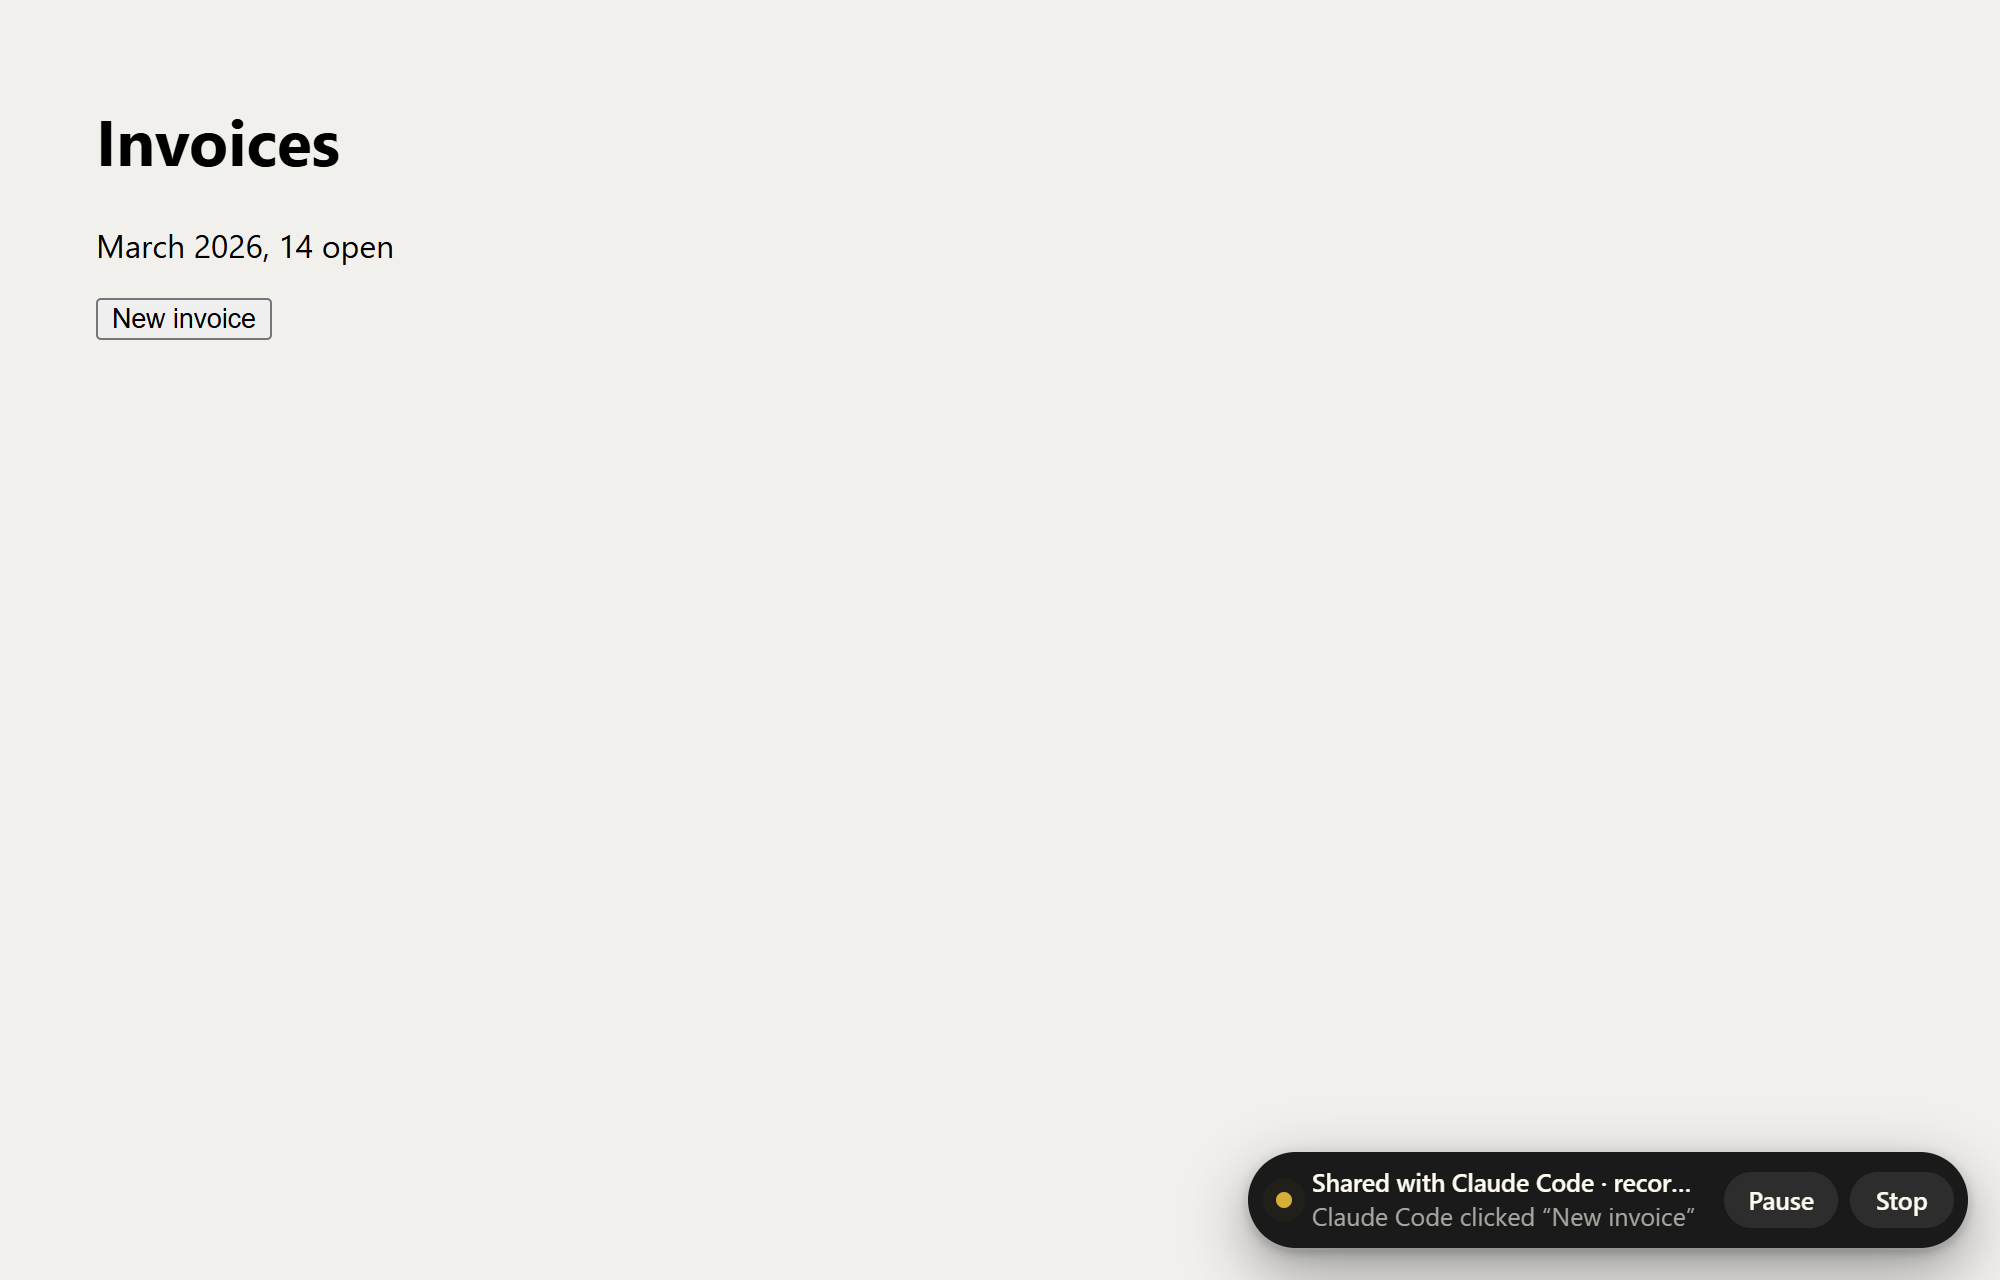
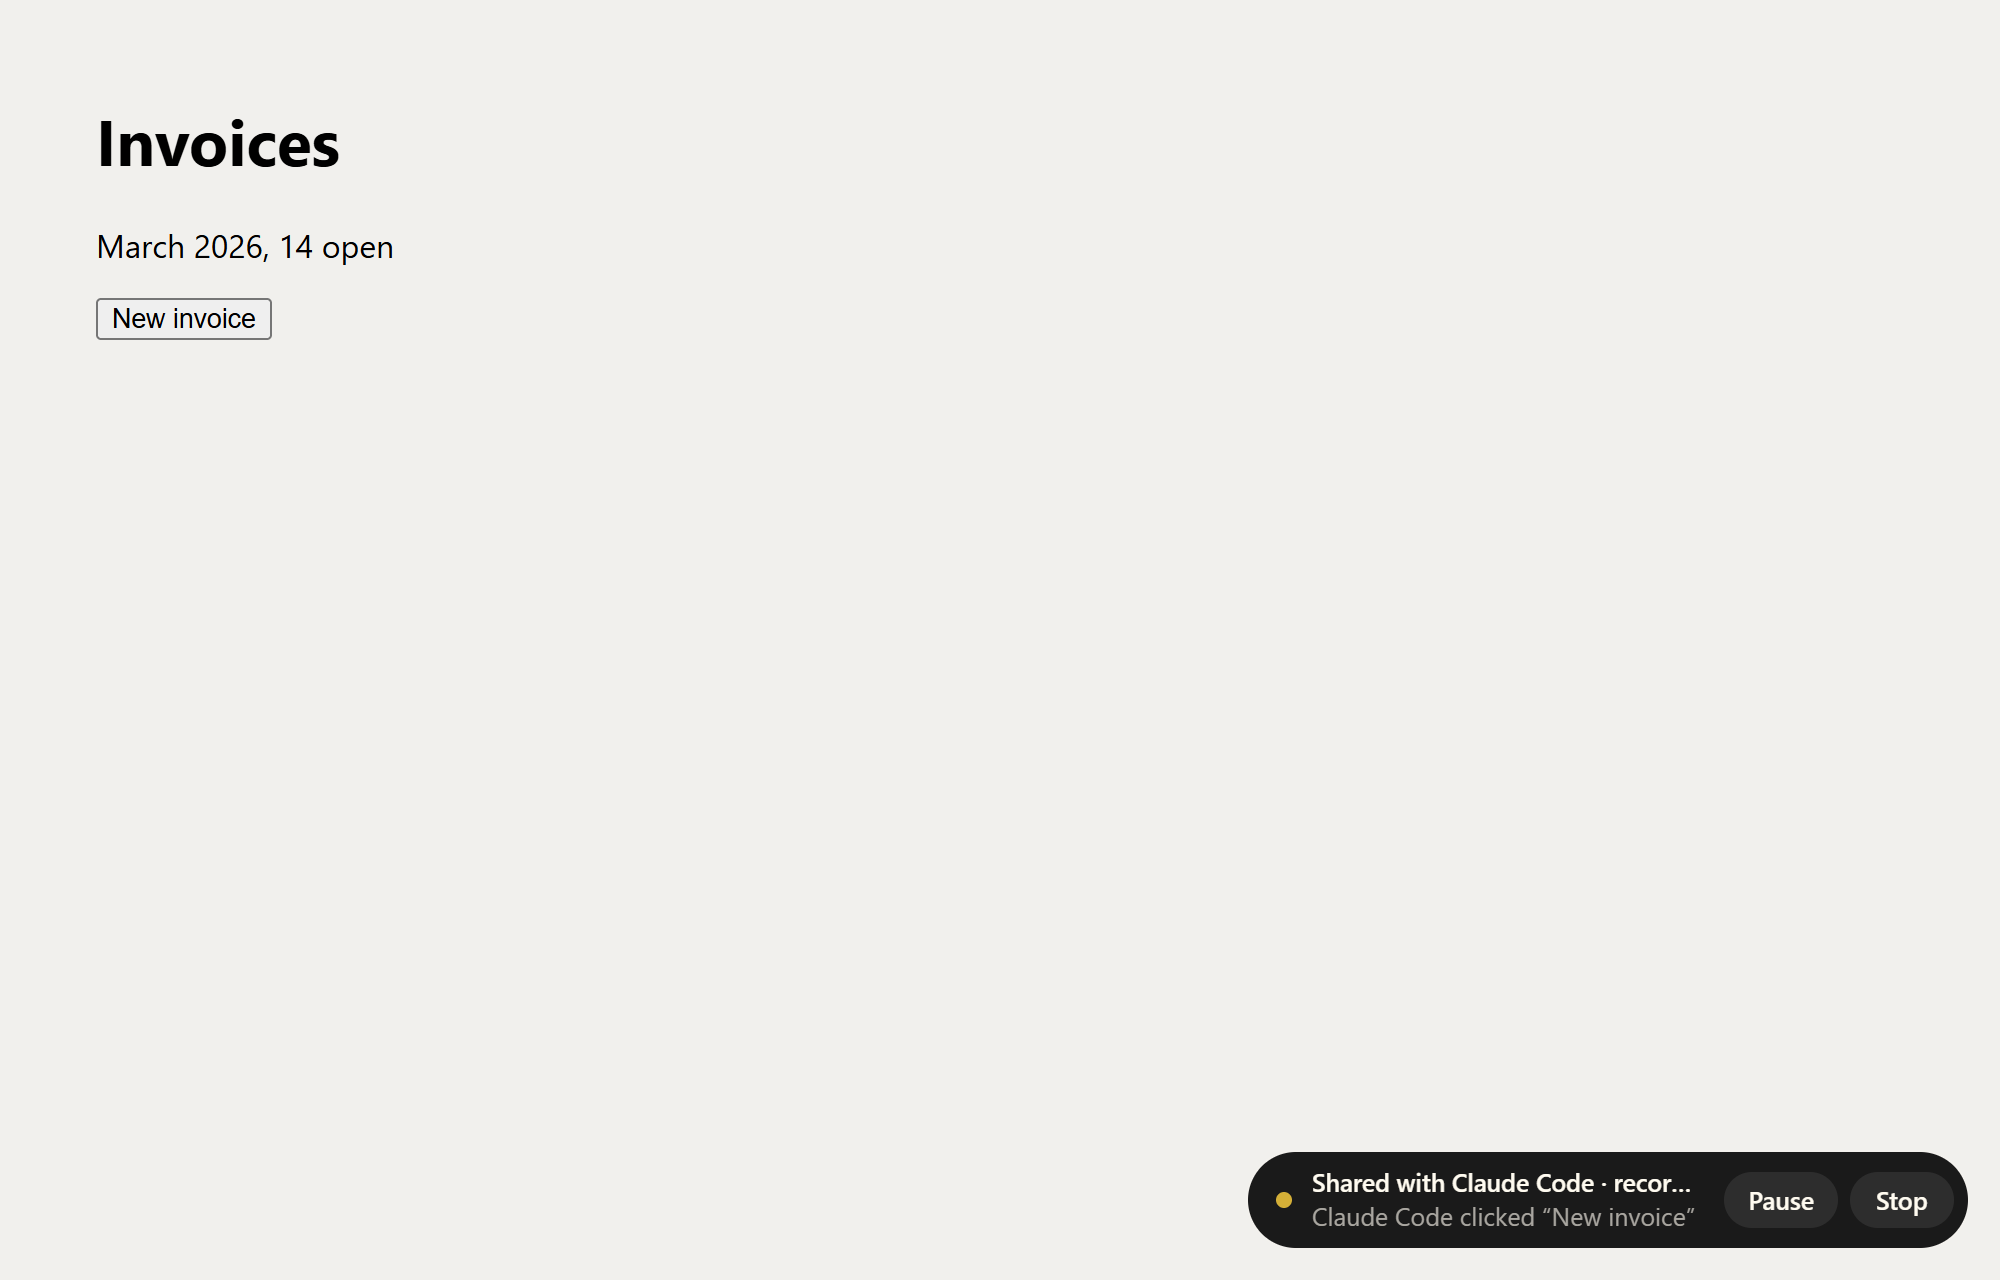
Flat surfaces: no glows, halos or pulsing rings
Focus rings, the live-dot pulse, the highlight halo and the soft shadows
under the status panel, cursor tag and toasts are gone; surfaces use
hairline borders instead.

Changed region(s): [[0.62, 0.9375, 0.992, 1.0]]

diff --git a/extension/content.js b/extension/content.js
@@ -664,16 +664,14 @@
           display: flex; justify-content: flex-end; align-items: flex-start;
           background: #1a1a1a; color: #fffbf0;
           border-radius: 999px;
-          box-shadow: 0 0 0 1px rgb(255 251 240 / .08), 0 12px 32px rgb(0 0 0 / .38), 0 2px 6px rgb(0 0 0 / .25);
+          box-shadow: 0 0 0 1px rgb(255 251 240 / .12);
           font: 400 12.5px/1.35 Inter, system-ui, "Segoe UI Variable Text", "Segoe UI", -apple-system, sans-serif;
           -webkit-font-smoothing: antialiased;
           transform-origin: 100% 100%;
         }
         .in { flex: none; display: flex; align-items: center; gap: 10px; max-width: 360px; padding: 7px 7px 7px 14px; box-sizing: border-box; }
         .dot { position: relative; flex: none; width: 8px; height: 8px; border-radius: 50%; background: #d4af37; }
-        .dot::after { content: ""; position: absolute; inset: 0; border-radius: 50%; background: inherit; animation: tether-beat 2.2s cubic-bezier(.22, 1, .36, 1) infinite; }
         .dot.rec { background: #e0806b; }
-        @keyframes tether-beat { 0% { opacity: .5; scale: 1; } 70%, 100% { opacity: 0; scale: 2.8; } }
         .lines { min-width: 0; }
         .t { font-weight: 600; letter-spacing: -0.005em; white-space: nowrap; overflow: hidden; text-overflow: ellipsis; }
         .s { color: #a9a6a0; white-space: nowrap; overflow: hidden; text-overflow: ellipsis; }
@@ -699,7 +697,7 @@
         button:focus-visible { outline: 2px solid #d4af37; outline-offset: 1px; }
         .hl {
           position: fixed; pointer-events: none; border-radius: 10px;
-          box-shadow: 0 0 0 2px #d4af37, 0 0 0 6px rgb(212 175 55 / .18); opacity: 0;
+          box-shadow: 0 0 0 2px #d4af37; opacity: 0;
           transition: opacity .6s cubic-bezier(.22, 1, .36, 1);
         }
         .hl.on { opacity: 1; transition: none; }
@@ -712,15 +710,14 @@
           position: absolute; left: 12px; top: 17px; padding: 3px 9px; border-radius: 999px;
           background: #d4af37; color: #1a1a1a; white-space: nowrap;
           font: 600 11.5px/1.4 Inter, system-ui, "Segoe UI Variable Text", "Segoe UI", sans-serif;
-          box-shadow: 0 4px 12px rgb(0 0 0 / .3);
         }
         .ripple {
           position: fixed; width: 30px; height: 30px; margin: -15px 0 0 -15px; border-radius: 50%;
-          background: rgb(212 175 55 / .22); box-shadow: 0 0 0 2px #d4af37; pointer-events: none; z-index: 1;
+          box-shadow: 0 0 0 2px #d4af37; pointer-events: none; z-index: 1;
           animation: tether-ripple .55s cubic-bezier(.22, 1, .36, 1) forwards;
         }
         @keyframes tether-ripple { from { transform: scale(.3); opacity: 1; } to { transform: scale(1.5); opacity: 0; } }
-        @media (prefers-reduced-motion: reduce) { .hl, .pill, button, .cur .body { transition: none; } .ripple { animation-duration: .01s; } .dot::after { animation: none; } }
+        @media (prefers-reduced-motion: reduce) { .hl, .pill, button, .cur .body { transition: none; } .ripple { animation-duration: .01s; } }
       </style>
       <div class="hl"></div>
       <div class="cur" aria-hidden="true">

diff --git a/extension/ui.css b/extension/ui.css
@@ -107,7 +107,7 @@ input[type="text"], input[type="number"], input[type="password"] {
   padding: 9px 12px;
   transition: border-color 0.16s, box-shadow 0.2s var(--out);
 }
-input:focus { outline: none; border-color: rgb(212 175 55 / 0.6); box-shadow: 0 0 0 4px var(--gold-soft); }
+input:focus { outline: none; border-color: rgb(212 175 55 / 0.7); }
 input::placeholder { color: var(--text-3); }
 
 a { color: var(--text-2); text-decoration: underline; text-decoration-color: var(--line); text-underline-offset: 3px; transition: color 0.15s; }
@@ -115,16 +115,6 @@ a:hover { color: var(--text); }
 
 .dot { position: relative; display: inline-block; flex: none; width: 8px; height: 8px; border-radius: 50%; background: var(--gold); transition: background-color 0.2s; }
 .dot.off { background: var(--text-3); opacity: 0.6; }
-/* The live dot breathes out a ring, like Bencho's live beat. */
-.live-dot::after, .dot.beat::after {
-  content: ""; position: absolute; inset: 0; border-radius: 50%;
-  background: inherit;
-  animation: beat 2.2s var(--out) infinite;
-}
-@keyframes beat {
-  0% { opacity: 0.5; scale: 1; }
-  70%, 100% { opacity: 0; scale: 2.8; }
-}
 
 .muted { color: var(--text-2); }
 .faint { color: var(--text-3); font-size: 12.5px; }
@@ -152,7 +142,6 @@ a:hover { color: var(--text); }
   top: calc((var(--h) - var(--d)) / 2); left: calc((var(--h) - var(--d)) / 2);
   width: var(--d); height: var(--d); border-radius: 50%;
   background: var(--text-2);
-  box-shadow: 0 1px 2px rgb(0 0 0 / 0.35);
   transition: translate 0.65s var(--settle), background-color 0.24s var(--out), scale 0.5s var(--spring);
 }
 .switch:hover::after { scale: 1.06; }

diff --git a/extension/popup/popup.css b/extension/popup/popup.css
@@ -72,7 +72,7 @@ footer { display: flex; justify-content: space-between; align-items: center; pad
 .stack:empty { display: none; }
 
 .composer { background: var(--card); border-radius: var(--radius); box-shadow: inset 0 0 0 1px var(--line); padding: 12px; display: grid; gap: 10px; transition: box-shadow 0.2s var(--out); }
-.composer.drag { box-shadow: inset 0 0 0 1px rgb(212 175 55 / 0.6), 0 0 0 4px var(--gold-soft); }
+.composer.drag { box-shadow: inset 0 0 0 1px rgb(212 175 55 / 0.7); }
 .composer[hidden] { display: none; }
 .composer textarea {
   width: 100%; min-height: 84px; resize: vertical;
@@ -97,4 +97,4 @@ footer { display: flex; justify-content: space-between; align-items: center; pad
 .rec-dot { background: var(--danger); }
 .toggle-row { display: flex; align-items: center; gap: 10px; min-height: 32px; padding: 0 8px; }
 .toggle-row .grow { flex: 1; min-width: 0; }
-.composer textarea:focus { outline: none; border-color: rgb(212 175 55 / 0.6); box-shadow: 0 0 0 4px var(--gold-soft); }
+.composer textarea:focus { outline: none; border-color: rgb(212 175 55 / 0.7); }

diff --git a/extension/toast-stack.js b/extension/toast-stack.js
@@ -23,7 +23,7 @@
       position: absolute; left: 0; right: 0; bottom: 0; height: ${H}px; box-sizing: border-box;
       display: flex; align-items: center; gap: 12px; padding: 0 10px 0 14px;
       border-radius: 20px; background: #2d2d2d;
-      box-shadow: 0 0 0 1px rgb(255 251 240 / .07), 0 12px 30px rgb(0 0 0 / .35);
+      box-shadow: 0 0 0 1px rgb(255 251 240 / .08);
       transform-origin: 50% 0;
       transition: transform .52s ${SPRING}, opacity .3s ease, background-color .22s ease;
     }
